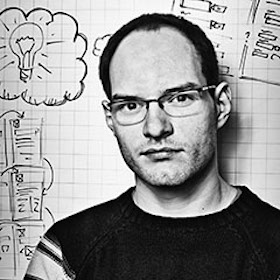
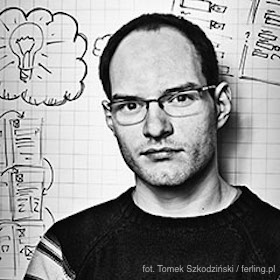
added photo credit

Changed region(s): [[0.4857, 0.9429, 1.0, 0.9714]]

diff --git a/index.html b/index.html
@@ -442,13 +442,15 @@ We're really excited about ACE! 2015 which combines two one-track conferences in
       <div class="col-sm-6 col-md-3">
         <div class="speaker">
           <img src="images/demo/speakers/lukasz.jpg" alt="Łukas Tyrała" />
+            <p>fot. Tomek Szkodziński /
+ferling.pl</p>
 
           <div class="speaker-info">
             <h3><b>&#321;ukasz</b><br />
             Tyra&#322;a</h3> <p>Designer at miastologia.pl</p>
           </div>
                <ul class="speaker-contacts">
-            <li><a href="http://twitter.com/lukasztyrala " class="fa fa-twitter"></a></li>
+            <li><a href="http://twitter.com/lukasztyrala" class="fa fa-twitter"></a></li>
           </ul>
         </div>
       </div>
